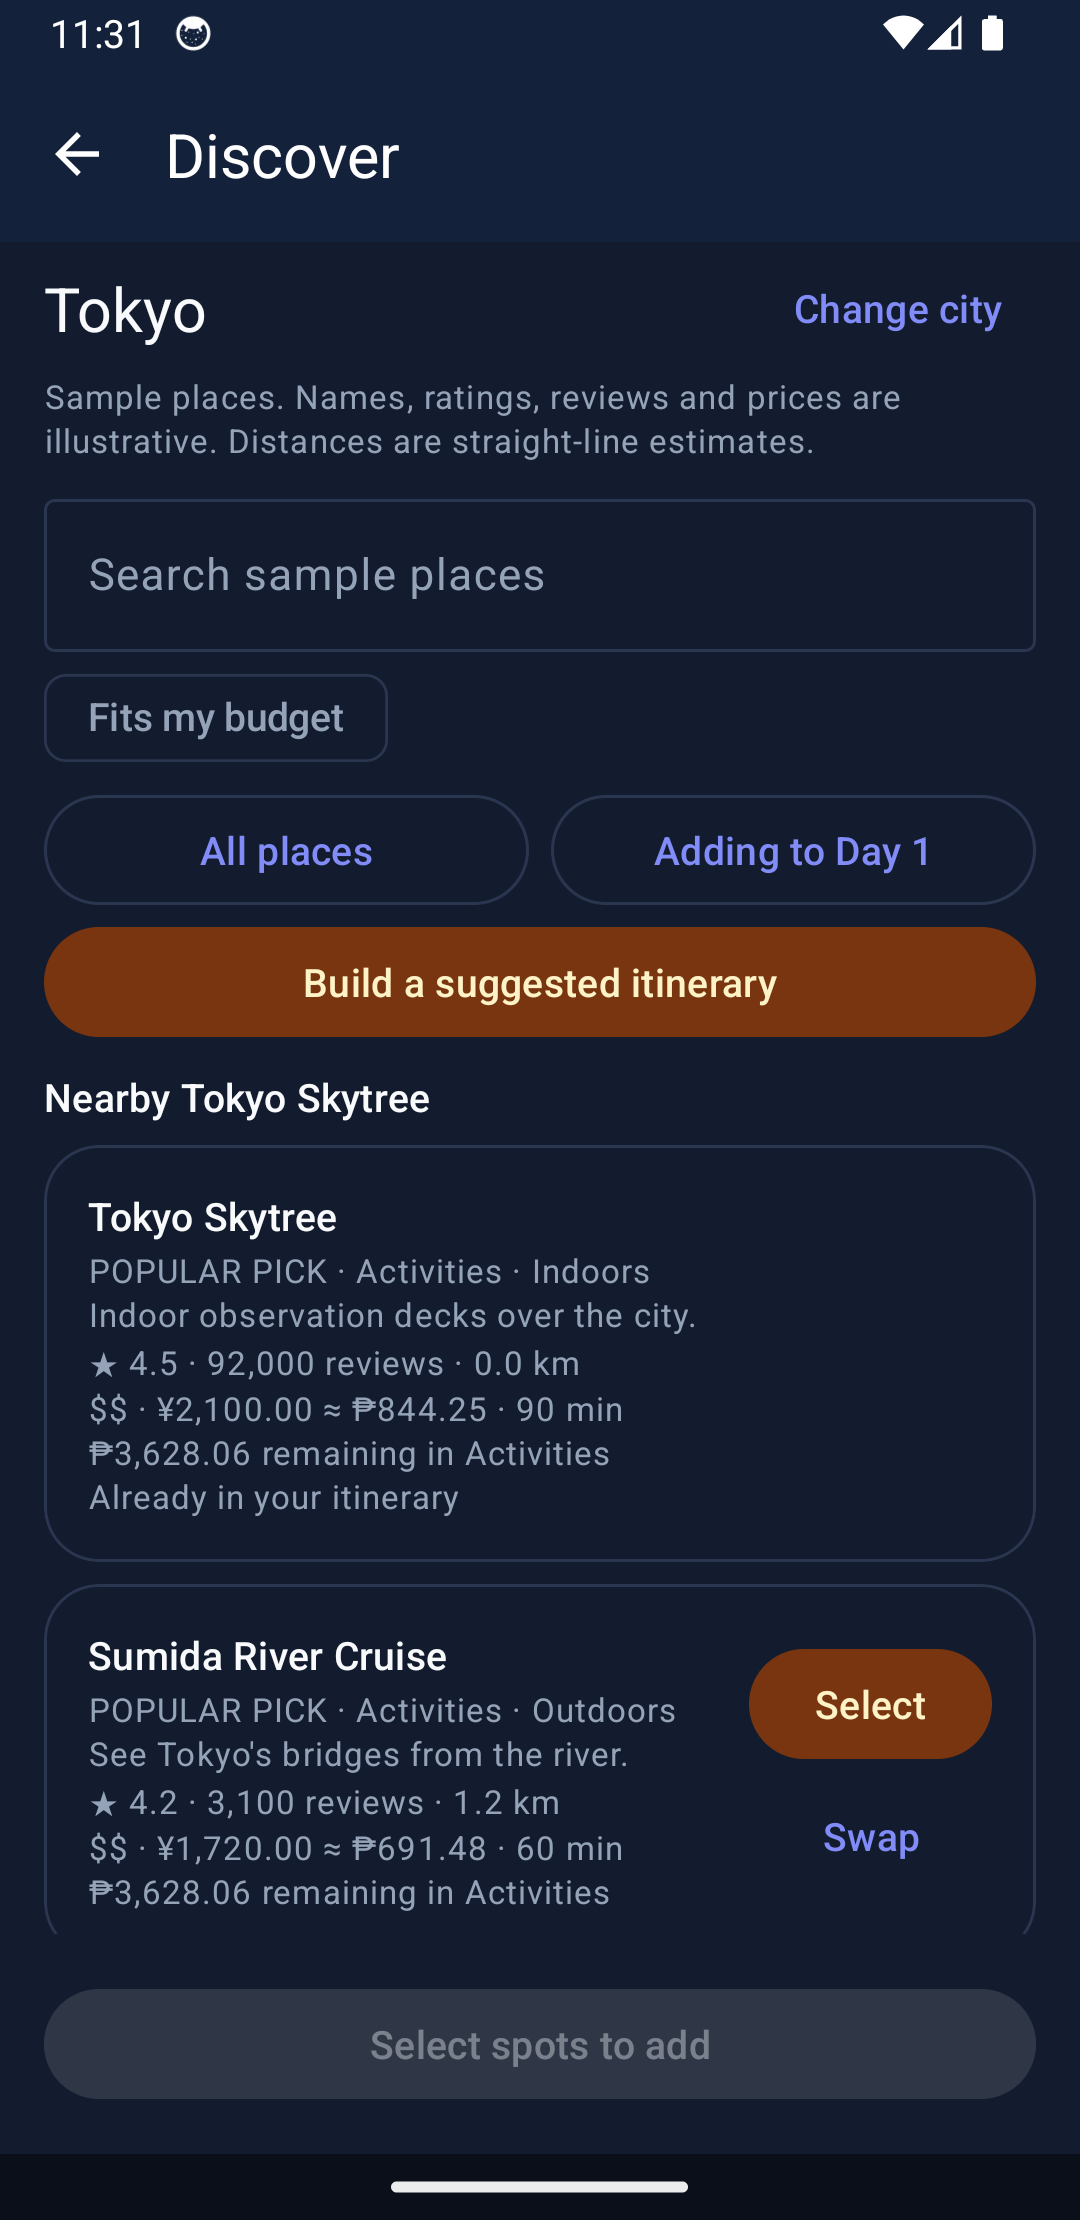
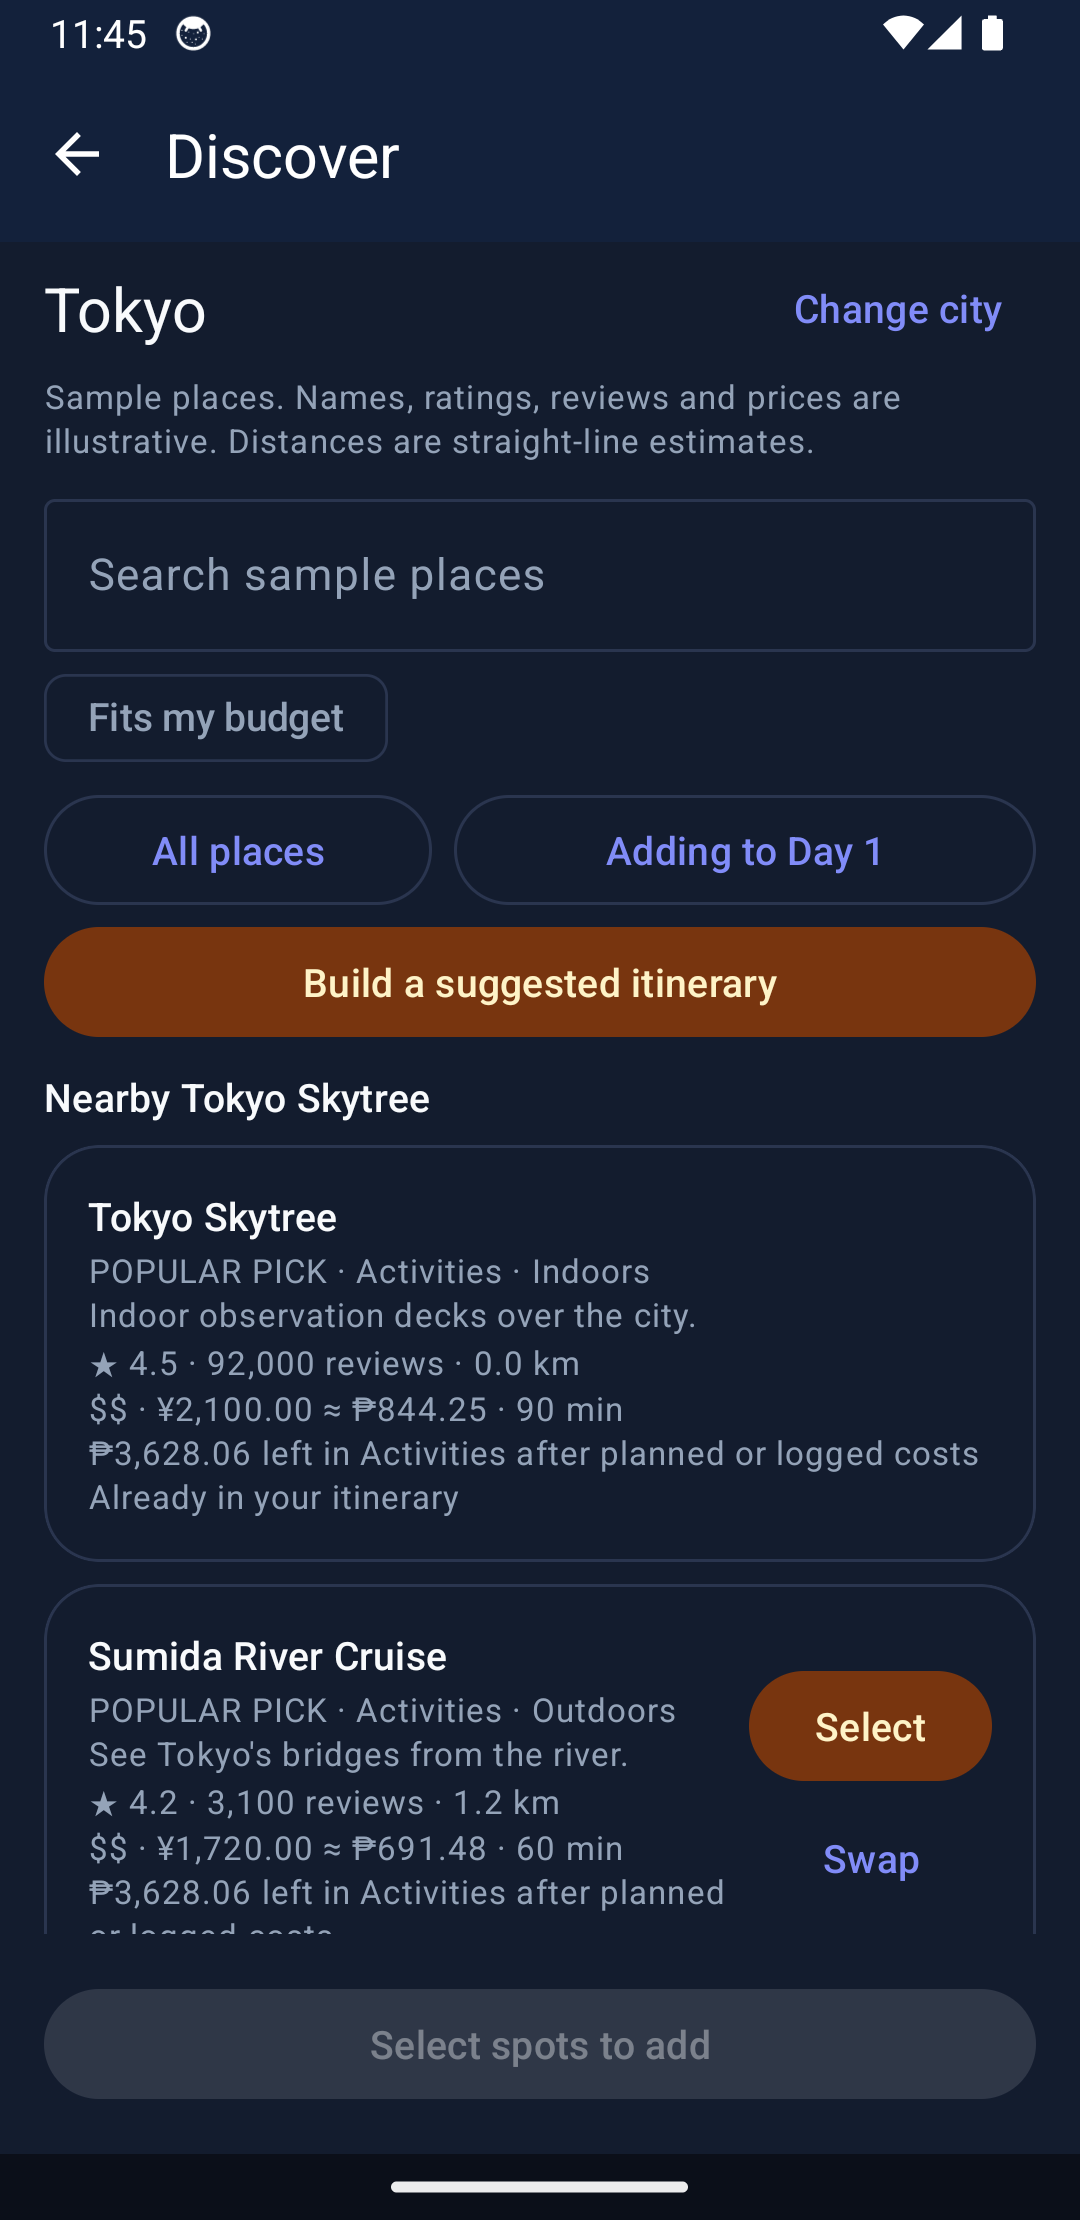
fix: keep the Discover filter and day buttons on one line at large font and label remaining as after planned or logged costs
Two defects from the emulator walkthrough. DiscoverFontScaleTest failed on the old layout (day button on two lines at 1.3x font) and CatalogRemainingLabelTest pins the clearer wording. Docs and the pull request draft updated to match.

diff --git a/app/src/androidTest/java/com/itismob/s01/group01/tripfit/DiscoverFontScaleTest.java b/app/src/androidTest/java/com/itismob/s01/group01/tripfit/DiscoverFontScaleTest.java
@@ -1,0 +1,88 @@
+package com.itismob.s01.group01.tripfit;
+
+import static org.junit.Assert.assertEquals;
+import static org.junit.Assert.assertTrue;
+
+import android.content.Context;
+import android.content.Intent;
+import android.os.ParcelFileDescriptor;
+import android.widget.TextView;
+
+import androidx.test.core.app.ActivityScenario;
+import androidx.test.core.app.ApplicationProvider;
+import androidx.test.ext.junit.runners.AndroidJUnit4;
+import androidx.test.platform.app.InstrumentationRegistry;
+
+import com.itismob.s01.group01.tripfit.data.TripRepositoryImpl;
+
+import org.junit.After;
+import org.junit.Before;
+import org.junit.Test;
+import org.junit.runner.RunWith;
+
+import java.io.FileInputStream;
+import java.io.IOException;
+import java.util.concurrent.CountDownLatch;
+import java.util.concurrent.TimeUnit;
+
+/** At 1.3x font the Discover filter and day buttons must each stay on one line. */
+@RunWith(AndroidJUnit4.class)
+public class DiscoverFontScaleTest {
+    private static final String LARGE_FONT = "1.3";
+    private static final String NORMAL_FONT = "1.0";
+    private static final long LAYOUT_WAIT_MS = 4000;
+
+    @Before
+    public void seedSampleTrip() throws InterruptedException {
+        TripFitApp app = ApplicationProvider.getApplicationContext();
+        CountDownLatch seeded = new CountDownLatch(1);
+        app.getTripRepository().ensureSeedData(result -> seeded.countDown());
+        assertTrue("Sample trip was not seeded", seeded.await(10, TimeUnit.SECONDS));
+    }
+
+    @After
+    public void restoreFontScale() throws IOException {
+        setFontScale(NORMAL_FONT);
+    }
+
+    @Test
+    public void filterAndDayButtonsStayOnOneLineAtLargeFont() throws Exception {
+        setFontScale(LARGE_FONT);
+        Context context = ApplicationProvider.getApplicationContext();
+        Intent intent = new Intent(context, DiscoverActivity.class)
+                .putExtra(HomeActivity.EXTRA_TRIP_ID, TripRepositoryImpl.SEED_TRIP_ID);
+        try (ActivityScenario<DiscoverActivity> scenario = ActivityScenario.launch(intent)) {
+            int[] lines = new int[2];
+            long deadline = System.currentTimeMillis() + LAYOUT_WAIT_MS;
+            while (System.currentTimeMillis() < deadline && (lines[0] == 0 || lines[1] == 0)) {
+                Thread.sleep(200);
+                scenario.onActivity(activity -> {
+                    lines[0] = lineCount(activity.findViewById(R.id.button_catalog_filter));
+                    lines[1] = lineCount(activity.findViewById(R.id.button_catalog_day));
+                });
+            }
+            assertTrue("Discover buttons were never laid out", lines[0] > 0 && lines[1] > 0);
+            assertEquals("Filter button wraps at 1.3x font", 1, lines[0]);
+            assertEquals("Day button wraps at 1.3x font", 1, lines[1]);
+        }
+    }
+
+    private static int lineCount(android.view.View button) {
+        return ((TextView) button).getLineCount();
+    }
+
+    private static void setFontScale(String scale) throws IOException {
+        ParcelFileDescriptor output = InstrumentationRegistry.getInstrumentation().getUiAutomation()
+                .executeShellCommand("settings put system font_scale " + scale);
+        try (FileInputStream stream = new ParcelFileDescriptor.AutoCloseInputStream(output)) {
+            while (stream.read() != -1) {
+                // drain so the command has finished before the screen is launched
+            }
+        }
+        try {
+            Thread.sleep(1500); // let the new configuration reach the app
+        } catch (InterruptedException e) {
+            Thread.currentThread().interrupt();
+        }
+    }
+}

diff --git a/app/src/androidTest/java/com/itismob/s01/group01/tripfit/CatalogRemainingLabelTest.java b/app/src/androidTest/java/com/itismob/s01/group01/tripfit/CatalogRemainingLabelTest.java
@@ -1,0 +1,30 @@
+package com.itismob.s01.group01.tripfit;
+
+import static org.junit.Assert.assertTrue;
+
+import android.content.Context;
+
+import androidx.test.core.app.ApplicationProvider;
+import androidx.test.ext.junit.runners.AndroidJUnit4;
+
+import org.junit.Test;
+import org.junit.runner.RunWith;
+
+/**
+ * Discover's remaining figure is the limit minus the larger of planned and logged costs, while the
+ * Budget tracker counts logged spending only. The label must say what it counts so the two screens
+ * do not read as contradicting each other.
+ */
+@RunWith(AndroidJUnit4.class)
+public class CatalogRemainingLabelTest {
+
+    @Test
+    public void discoverRemainingLabelNamesPlannedCosts() {
+        Context context = ApplicationProvider.getApplicationContext();
+        String label = context.getString(R.string.catalog_remaining, "P3,628.06", "Activities");
+        assertTrue("Label should mention planned costs: " + label,
+                label.toLowerCase(java.util.Locale.ROOT).contains("planned"));
+        assertTrue("Label should keep the amount: " + label, label.contains("P3,628.06"));
+        assertTrue("Label should keep the category: " + label, label.contains("Activities"));
+    }
+}

diff --git a/docs/Prototype-Merge-Map.md b/docs/Prototype-Merge-Map.md
@@ -802,7 +802,7 @@ A row also owns every item whose only UI is that screen:
 
 ### Finish pass (2026-11-21, `docs/Finish-Integration-Plan.md`)
 
-**Instrumented tests.** `./gradlew connectedDebugAndroidTest` on a freshly wiped Pixel 3a (API 34): **36 of 36 pass** (35 existing plus the new `BudgetSnackbarTest`). The first run had 1 failure out of 35, `PrototypeDeviceTest.screenActivitiesLaunchLocally`, in two stages, both **test defects**: it launched screens for the sample trip on a clean install where that trip did not exist yet (screens close themselves when their trip is missing, P-05), and its status-bar check measured padding that `AppBarLayout` never has (it uses `fitsSystemWindows`, so the toolbar sits below the inset). The test now seeds the sample trip and checks that the toolbar clears the status bar. P-112 is ticked.
+**Instrumented tests.** `./gradlew connectedDebugAndroidTest` on a freshly wiped Pixel 3a (API 34): **38 of 38 pass** (35 existing plus `BudgetSnackbarTest`, `DiscoverFontScaleTest` and `CatalogRemainingLabelTest`). The first run had 1 failure out of 35, `PrototypeDeviceTest.screenActivitiesLaunchLocally`, in two stages, both **test defects**: it launched screens for the sample trip on a clean install where that trip did not exist yet (screens close themselves when their trip is missing, P-05), and its status-bar check measured padding that `AppBarLayout` never has (it uses `fitsSystemWindows`, so the toolbar sits below the inset). The test now seeds the sample trip and checks that the toolbar clears the status bar. P-112 is ticked.
 
 **Screens walked on the emulator** (light, dark and 1.3x font under `.impeccable/review/`, no ANR dialogs): Optimize, Add Destination, Map Picker, Trip settings, Discover, Suggestions, Weather, Calendar export, Summary, Group, Journal, Profile and Budget setup, plus a real Stop Details (opened by tapping a stop; the capture tool's fake item id closes that screen). Together with Login, Home, Itinerary and Budget from the first walk, every screen has now been seen on a device. All 13 light captures were reviewed by eye, and the 1.3x font captures for Group, Discover, Budget setup and Add Destination and the dark captures for Discover and Group; the remaining dark and 1.3x captures were saved but not reviewed one by one. No clipping, overlap or `DESIGN.md` problem was found. One cosmetic note: at 1.3x font the Discover "Adding to Day 1" chip wraps and leaves the "1" alone on a second line.
 
@@ -812,4 +812,8 @@ A row also owns every item whose only UI is that screen:
 
 **Validation.** `testDebugUnitTest` 272 tests, 0 failures; `lintDebug` 0 errors; `compileDebugAndroidTestJava` and `assembleDebug` pass.
 
-**Deferred.** (1) The Discover chip wrap above, a layout-only change with nothing to unit test. (2) Discover and Suggestions say "remaining in Activities" using the larger of planned and logged spending (₱3,628.06), while the Budget tracker's category row counts logged spending only (₱4,472.31). This follows Kevin's `DraftBudget` rule and the plan's "planned and logged are never summed", but the two labels can confuse a reader. A copy change would settle it; it needs a product decision, so it was not changed. (3) The capture tool `.claude/plans/tools/capture.py` cannot open Stop Details by itself (fake item id); it now has a Weather entry.
+**Also fixed (test first, device-verified).** (1) At 1.3x font the Discover "Adding to Day 1" button wrapped and left the "1" alone on a second line. `DiscoverFontScaleTest` sets the system font scale to 1.3 and failed (day button on 2 lines); the filter and day buttons now share the row 2:3 and each stays on one line. (2) Discover said "remaining in Activities" (limit minus the larger of planned and logged, ₱3,628.06) while the Budget tracker counts logged spending only (₱4,472.31). The Discover label now reads "left in Activities after planned or logged costs", pinned by `CatalogRemainingLabelTest`. The Budget tracker keeps its logged-only meaning (planned and logged are never summed).
+
+**Validation after these fixes.** 272 unit tests, 0 lint errors, `assembleDebug` and 38 of 38 instrumented tests pass.
+
+**Deferred.** The capture tool `.claude/plans/tools/capture.py` cannot open Stop Details by itself (fake item id); it now has a Weather entry.

diff --git a/docs/PR-Description-integration-steps-6-12.md b/docs/PR-Description-integration-steps-6-12.md
@@ -31,7 +31,7 @@ Design and decision records: `docs/Combine-Prototypes-Plan.md`, `docs/Prototype-
 | 8 Calendar and export | `.ics` and PDF through the file picker, summary sharing | `5d50188` |
 | 9 Group and journal | Local companions, votes, editable photo journal | `67e9fde`, `96defcd` |
 | 10 to 12 | Remove duplicate screens, naming, final verification | `7fcce7a`, `317242d`, `1979475` |
-| Audit fixes | Optimize guard and whole-trip budget allowance, pin name, budget, stop card, keyboard, tagline and trip-settings gaps | `27e2013`, `f90cea5`, `8ee4d6f`, `468a6ee` |
+| Audit fixes | Optimize guard and whole-trip budget allowance, pin name, budget, stop card, keyboard, tagline, trip-settings, snackbar, large-font and label gaps | `27e2013`, `f90cea5`, `8ee4d6f`, `468a6ee`, and the Discover font and label fix |
 | Tests and docs | Device test fixes, refreshed captures, merge-map and plan updates | `1a97209`, `3dadafb`, `aab1835`, `b7b21ff`, `1017abf`, `4be9a48`, `4f5611d` |
 | Planning docs | Project plans, contributor docs and tooling | `6893b7b` to `d3520ac` |
 
@@ -40,7 +40,7 @@ Design and decision records: `docs/Combine-Prototypes-Plan.md`, `docs/Prototype-
 Run on `integration/steps-6-12` (JDK 25 from Android Studio):
 
 - `./gradlew compileDebugJavaWithJavac testDebugUnitTest lintDebug compileDebugAndroidTestJava assembleDebug`: **BUILD SUCCESSFUL**, **272 unit tests, 0 failures, 0 lint errors**.
-- `./gradlew connectedDebugAndroidTest` on a freshly wiped Pixel 3a (API 34): **36 of 36 instrumented tests pass**.
+- `./gradlew connectedDebugAndroidTest` on a freshly wiped Pixel 3a (API 34): **38 of 38 instrumented tests pass**.
 - Emulator walkthrough of every screen (light, dark and 1.3x font captures in `.impeccable/review/`): no ANRs, no layout problems found. The "Budget saved" snackbar, keyboard hiding after submit (Budget calculator, Group companion) and the weather forecast change were exercised by hand.
 - Checklist: 138 of 138 items in `docs/Prototype-Merge-Map.md` verified against the code.
 
@@ -49,8 +49,6 @@ Run on `integration/steps-6-12` (JDK 25 from Android Studio):
 - **Sample data only.** Places, prices, ratings, weather and routing are illustrative. Exchange rates are live from Frankfurter when reachable and fall back to a sample table. Travel times are straight-line estimates.
 - **Local storage only.** Trips and stops are in Room v1 (no migration was needed); expenses, budget, journal, votes and per-stop cost are in `PrototypeStore`. Nothing syncs to a server and no invitations are sent.
 - **Not merged from `origin/feat/ui-prototype`:** Kevin's later commits `123c8cd` and `8952904` (travel data adapters, `ExchangeRates`, extra tests) edit screens this PR deletes, and `ExchangeRates` would add a second rates table. Two of their rules were ported as tests plus fixes (optimized previews never get worse; suggestions respect the whole-trip budget). The rest needs a follow-up PR from Kevin on top of this one, using the single `CurrencyRates` table.
-- Discover says "remaining" using the larger of planned and logged spending, while the Budget tracker counts logged spending only, so the two figures can differ.
-- At 1.3x font the Discover "Adding to Day 1" chip wraps and leaves the "1" on its own line.
 - Calendar sync is a preview: nothing is sent to Google Calendar; the `.ics` file is saved for manual import.
 
 ## Reviewer checklist

diff --git a/docs/Combine-Prototypes-Plan.md b/docs/Combine-Prototypes-Plan.md
@@ -19,7 +19,7 @@ Branch: `integration/steps-6-12` (teammates' steps 6-12 plus the audit fixes; no
 | 9 Group and journal | **done** | `67e9fde` | Local companions, votes, and editable journal entries with photos |
 | 10 Remove duplicate screens | **done** | `7fcce7a`, `317242d` | Removed obsolete `prototype/*Activity` classes and `DraftStore` |
 | 11 Naming and docs | **done** | `1979475` | Unified app name (Trippings) across strings, settings, and docs |
-| 12 Final verification | **done** | `468a6ee` | 272 unit tests, 36 instrumented tests, 0 lint errors, assembleDebug. Checklist 138 of 138 ticked. Every screen walked on an emulator (findings in `docs/Prototype-Merge-Map.md` section 9) |
+| 12 Final verification | **done** | `468a6ee` | 272 unit tests, 38 instrumented tests, 0 lint errors, assembleDebug. Checklist 138 of 138 ticked. Every screen walked on an emulator (findings in `docs/Prototype-Merge-Map.md` section 9) |
 
 Steps 6–9 bring the Tokyo and Manila catalog into trip planning, add saved sample forecasts and indoor swaps, export calendar and summary files, and add local companions, votes, and a photo journal. The Step 9 verification run passed 251 unit tests and 35 emulator tests, built the debug APK, and reported zero lint errors.
 
